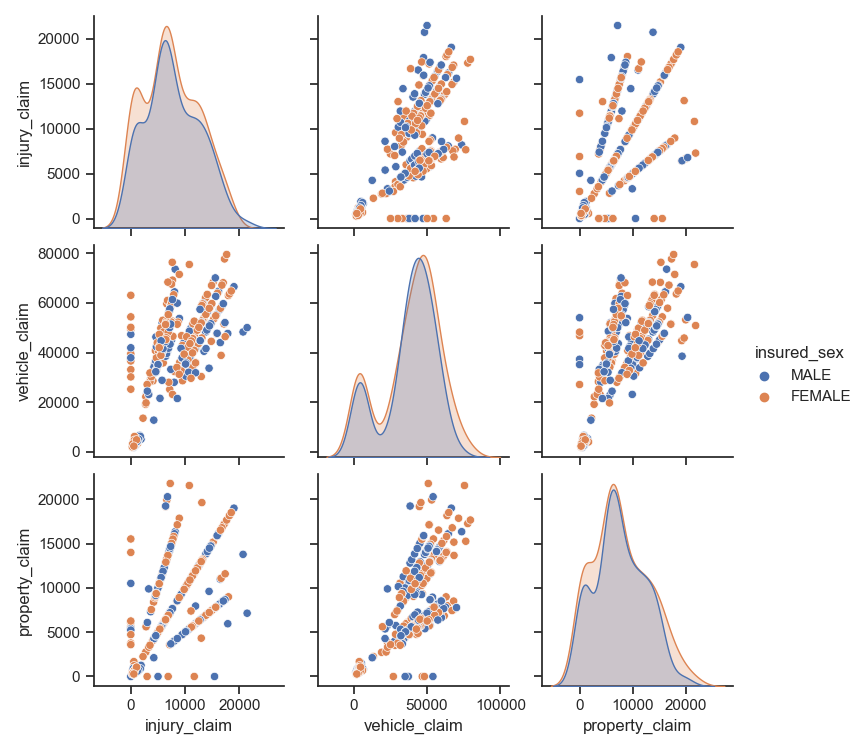
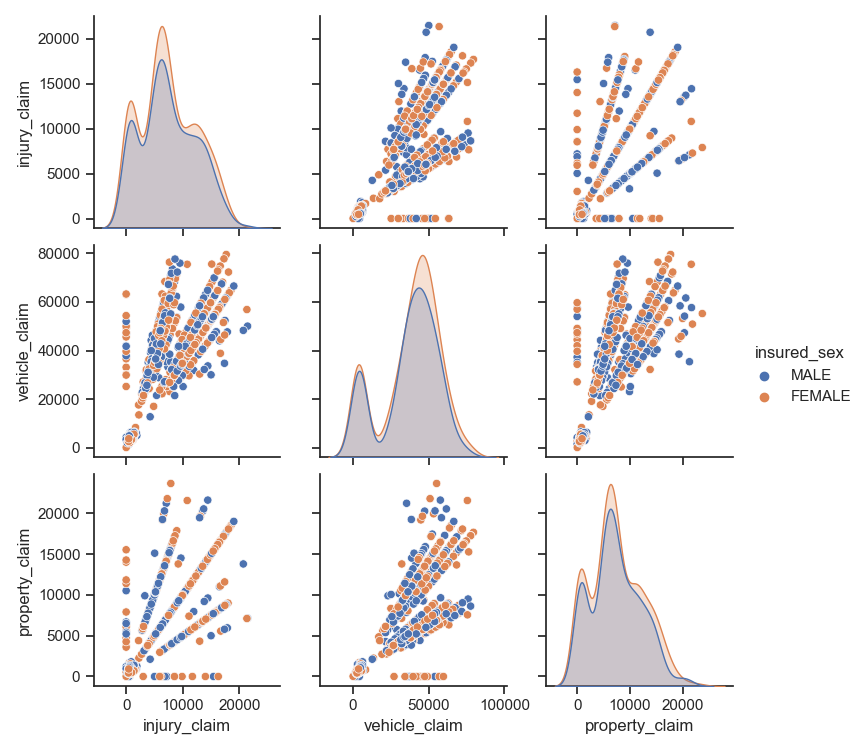
KNN, Naive Bayes, Decision Tree and Random Forest Classifier was created

diff --git a/main.py b/main.py
@@ -8,7 +8,10 @@ from sklearn.model_selection import train_test_split
 from sklearn.metrics import confusion_matrix, classification_report, accuracy_score
 from sklearn.linear_model import LogisticRegression
 from sklearn.svm import SVC
-
+from sklearn.neighbors import KNeighborsClassifier
+from sklearn.naive_bayes import GaussianNB
+from sklearn.tree import DecisionTreeClassifier
+from sklearn.ensemble import RandomForestClassifier
 
 from abc import ABC, abstractmethod
 
@@ -378,7 +381,7 @@ class SVC_(Classifier):
     def fit(self):
         super().fit()
 
-        clf = SVC()
+        clf = SVC(kernel='sigmoid', random_state=0)
         clf.fit(self.x_train, self.y_train)
 
         self._clf = clf
@@ -404,6 +407,135 @@ class SVC_(Classifier):
 
         return res
 
+class KNN(Classifier):
+    classifier_name = "K-NN"
+
+    def fit(self):
+        super().fit()
+
+        clf = KNeighborsClassifier(n_neighbors=15, metric="minkowski", p=1)
+        clf.fit(self.x_train, self.y_train)
+
+        self._clf = clf
+
+    def accuracy(self):
+        return accuracy_score(self.y_test, self.predict())
+
+    def predict(self):
+        return self._clf.predict(self.x_test)
+
+    def confusion_matrix(self):
+        return confusion_matrix(self.y_test, self.predict())
+
+    def __str__(self):
+        res = super().__str__()
+        res += """
+       Accuracy: {}
+       {}
+           """.format(
+            self.accuracy(),
+            classification_report(self.y_test, self.predict())
+        )
+
+        return res
+
+class NaiveBayes(Classifier):
+    classifier_name = "Naive Bayes"
+
+    def fit(self):
+        super().fit()
+
+        clf = GaussianNB()
+        clf.fit(self.x_train, self.y_train)
+
+        self._clf = clf
+
+    def accuracy(self):
+        return accuracy_score(self.y_test, self.predict())
+
+    def predict(self):
+        return self._clf.predict(self.x_test)
+
+    def confusion_matrix(self):
+        return confusion_matrix(self.y_test, self.predict())
+
+    def __str__(self):
+        res = super().__str__()
+        res += """
+       Accuracy: {}
+       {}
+           """.format(
+            self.accuracy(),
+            classification_report(self.y_test, self.predict())
+        )
+
+        return res
+
+
+class DecisionTree(Classifier):
+    classifier_name = "Decision Tree"
+
+    def fit(self):
+        super().fit()
+
+        clf = DecisionTreeClassifier(criterion="entropy", random_state=0)
+        clf.fit(self.x_train, self.y_train)
+
+        self._clf = clf
+
+    def accuracy(self):
+        return accuracy_score(self.y_test, self.predict())
+
+    def predict(self):
+        return self._clf.predict(self.x_test)
+
+    def confusion_matrix(self):
+        return confusion_matrix(self.y_test, self.predict())
+
+    def __str__(self):
+        res = super().__str__()
+        res += """
+       Accuracy: {}
+       {}
+           """.format(
+            self.accuracy(),
+            classification_report(self.y_test, self.predict())
+        )
+
+        return res
+
+
+class RandomForest(Classifier):
+    classifier_name = "Random Forest"
+
+    def fit(self):
+        super().fit()
+
+        clf = RandomForestClassifier(n_estimators=10,criterion="entropy", random_state=0)
+        clf.fit(self.x_train, self.y_train)
+
+        self._clf = clf
+
+    def accuracy(self):
+        return accuracy_score(self.y_test, self.predict())
+
+    def predict(self):
+        return self._clf.predict(self.x_test)
+
+    def confusion_matrix(self):
+        return confusion_matrix(self.y_test, self.predict())
+
+    def __str__(self):
+        res = super().__str__()
+        res += """
+           Accuracy: {}
+           {}
+               """.format(
+            self.accuracy(),
+            classification_report(self.y_test, self.predict())
+        )
+
+        return res
 
 
 if __name__ == "__main__":
@@ -412,7 +544,7 @@ if __name__ == "__main__":
 
     filterwarnings("ignore")
 
-    clf = Logistic(all_data=False)
+    clf = Logistic(all_data=True)
 
     count = Counter(clf.y)
     print(count)
@@ -445,12 +577,46 @@ if __name__ == "__main__":
     print(clf)
 
     # Support Vector Machine
-    svm = SVC_(all_data=False)
+    svm = SVC_(all_data=True)
 
     # fit the model
     svm.fit()
 
     print(svm)
+
+    # K nearest neighbors
+    knn = KNN(all_data=True)
+
+    # fit the model
+    knn.fit()
+
+    print(knn)
+
+    # Naive Bayes
+    nb = NaiveBayes(all_data=True)
+
+    # fit model
+    nb.fit()
+
+    print(nb)
+
+    # Decision Tree
+    dt = DecisionTree(all_data=True)
+
+    # fit the model
+    dt.fit()
+
+    print(dt)
+
+    #Random Forest
+    rf = RandomForest(all_data=True)
+
+    #fit the model
+    rf.fit()
+
+
+    print(rf)
+
 
 
 
